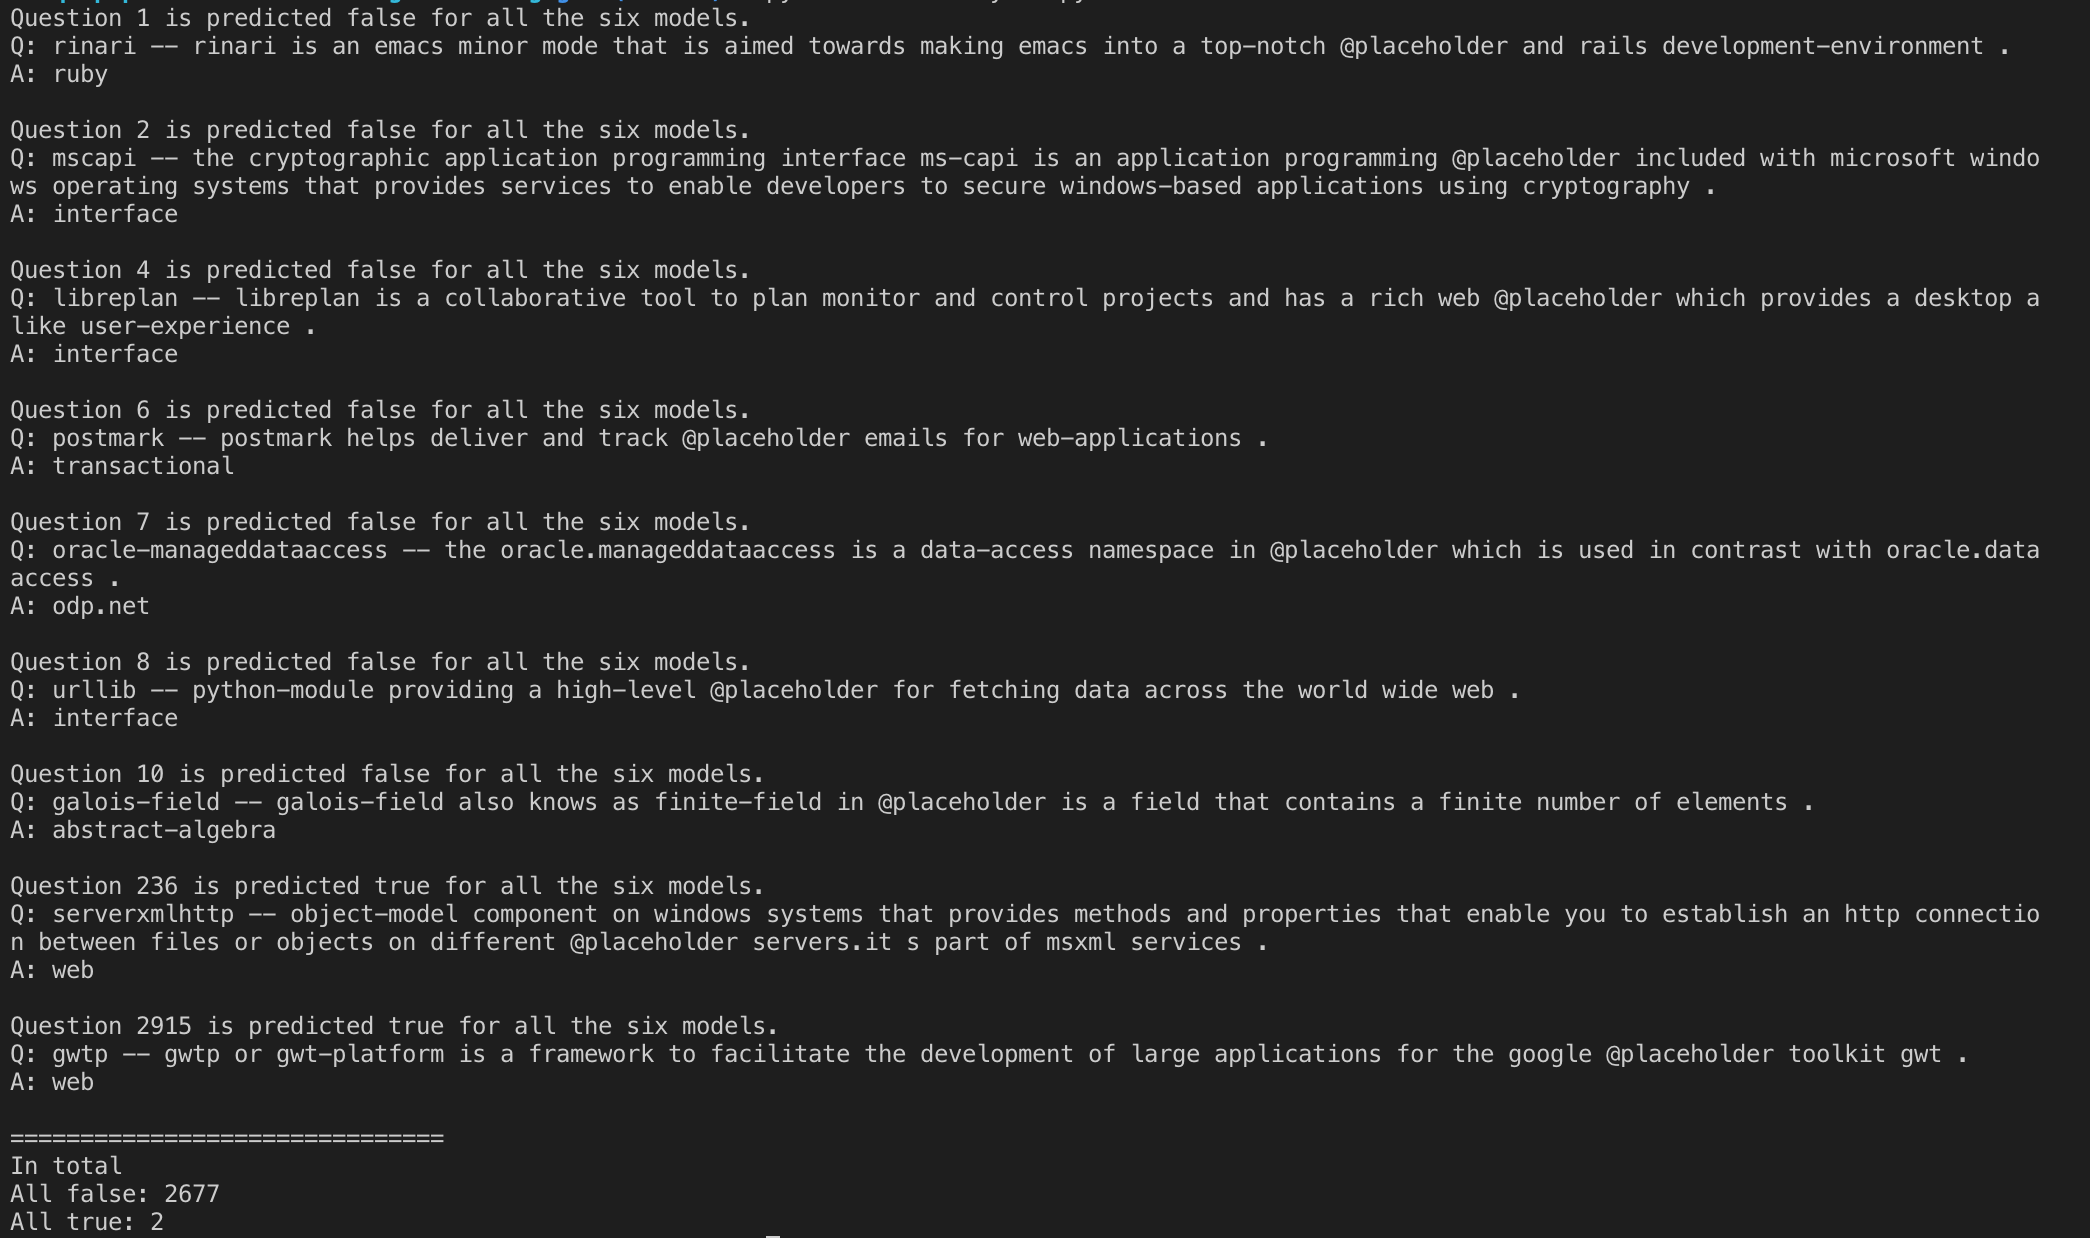
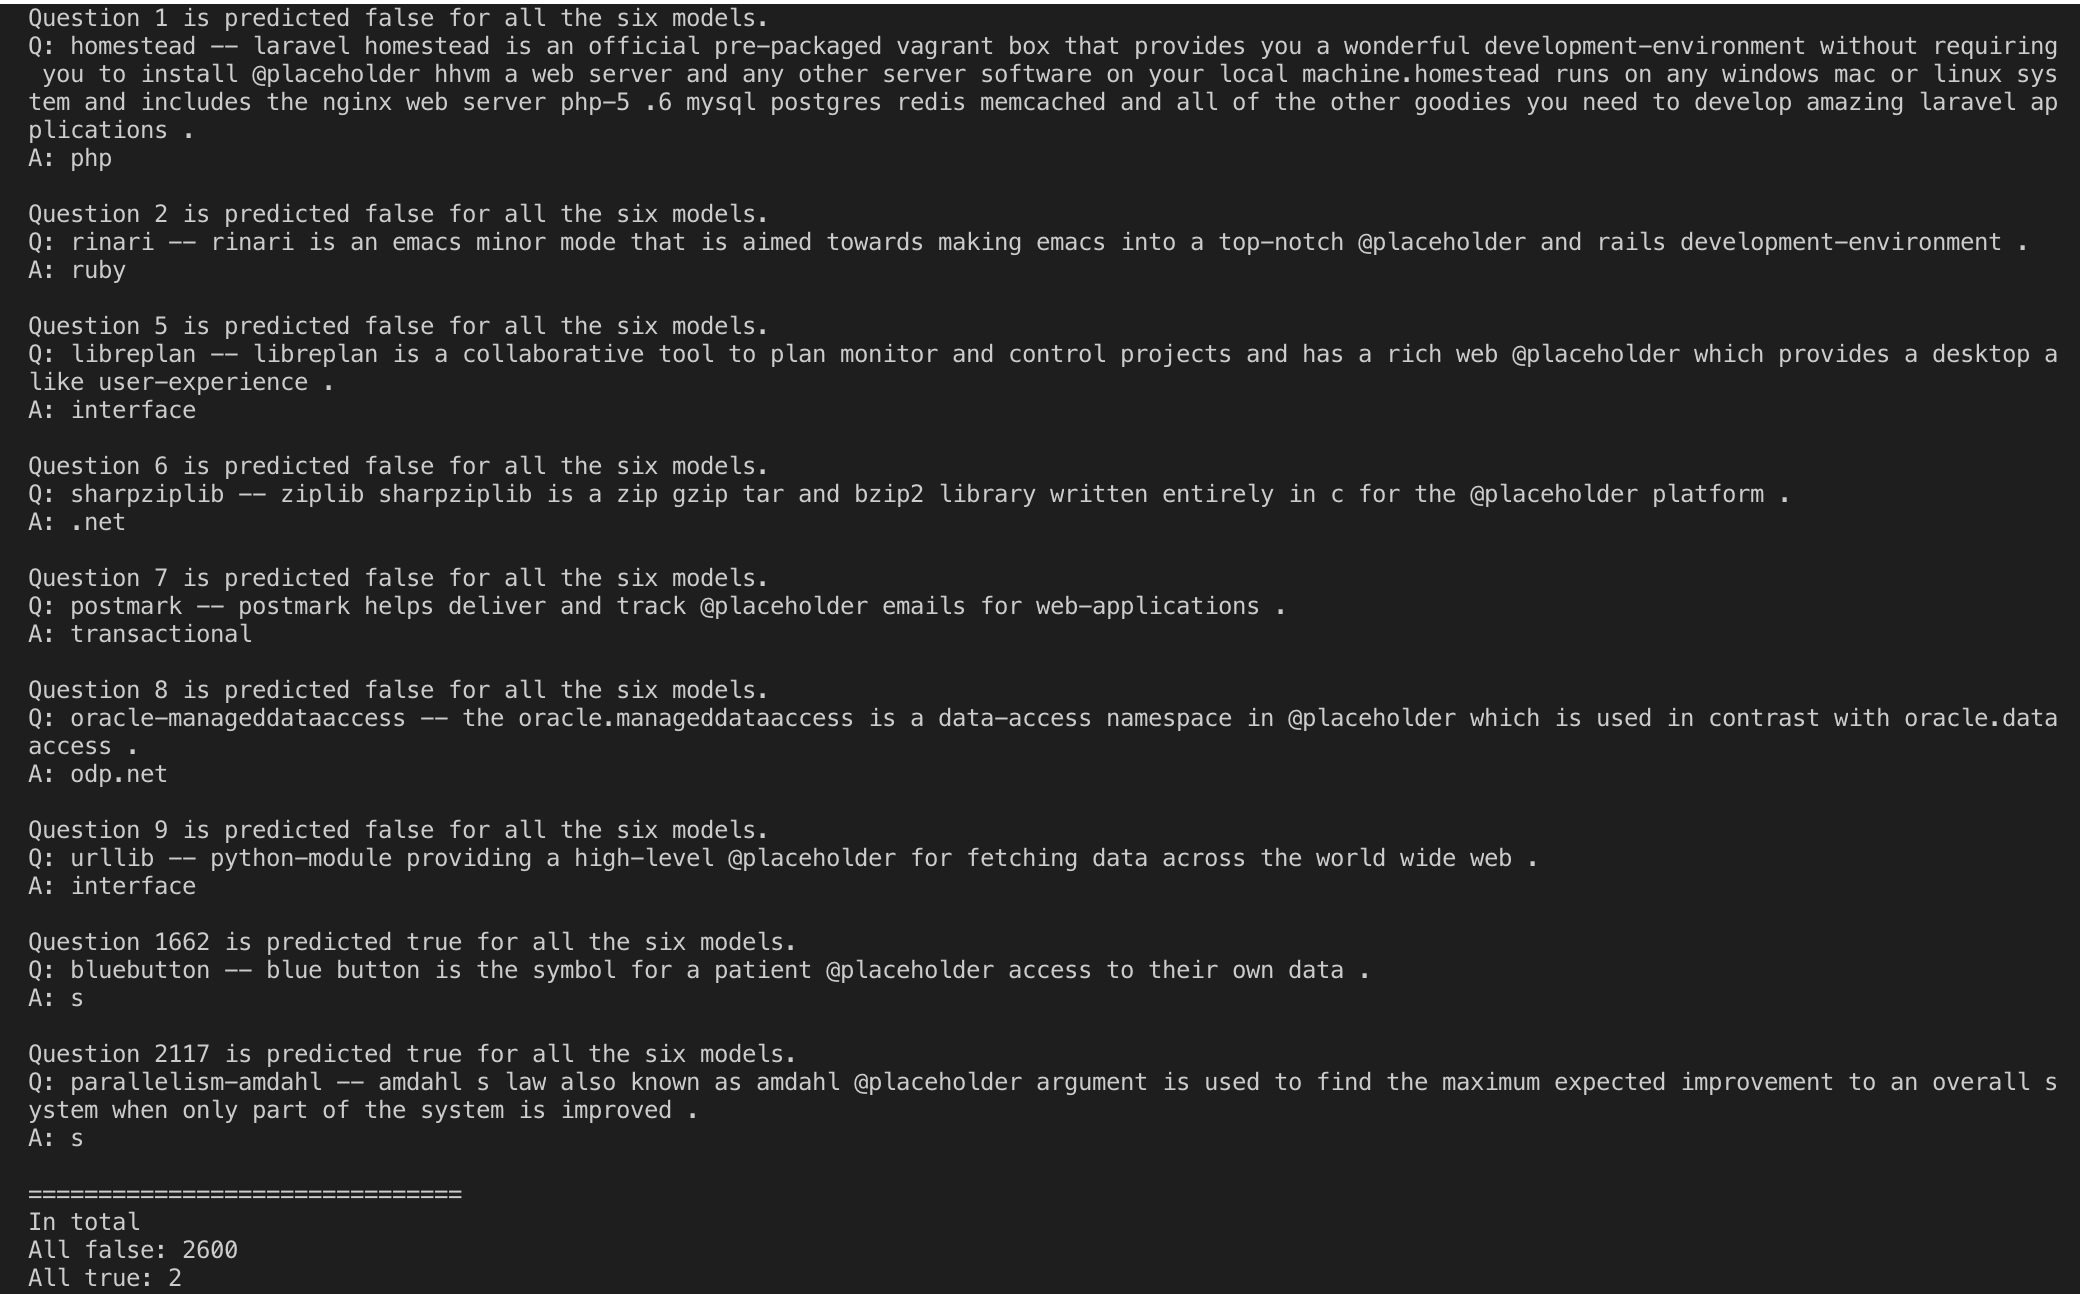
error analysis2

diff --git a/ErrorAnalysis.py b/ErrorAnalysis.py
@@ -8,12 +8,12 @@ valfile = open("../../quasar-s_dev_formatted.json", 'r')
 valData = json.load(valfile)
 valfile.close()
 
-Count_MNB_file = open("../Count_MNB_pred", 'r')
-Tfidf_MNB_file = open("../Tfidf_MNB_pred", 'r')
-Count_SVM_file = open("../Count_SVM_pred", 'r')
-Tfidf_SVM_file = open("../Tfidf_SVM_pred", 'r')
-Count_MLP_file = open("../Count_MLP_pred", 'r')
-Tfidf_MLP_file = open("../Tfidf_MLP_pred", 'r')
+Count_MNB_file = open("results/Count_MNB_pred", 'r')
+Tfidf_MNB_file = open("results/Tfidf_MNB_pred", 'r')
+Count_SVM_file = open("results/Count_SVM_pred", 'r')
+Tfidf_SVM_file = open("results/Tfidf_SVM_pred", 'r')
+Count_MLP_file = open("results/Count_MLP_pred", 'r')
+Tfidf_MLP_file = open("results/Tfidf_MLP_pred", 'r')
 
 Count_MNB = []
 Tfidf_MNB = []
@@ -50,8 +50,8 @@ for j in range(len(Count_MNB)):
         Count_MLP[j] == '0' and \
         Tfidf_MLP[j] == '0':
         false += 1
-        if j <= 10: # take some examples here not all
-            print "Question {} is predicted false for all the six models.".format(j)
+        if j < 10: # take some examples here not all
+            print "Question {} is predicted false for all the six models.".format(j+1)
             question = valData["questions"][j]
             X = question['query']
             Y = question['answers'][0]
@@ -65,7 +65,7 @@ for j in range(len(Count_MNB)):
         Count_MLP[j] == '1' and \
         Tfidf_MLP[j] == '1':
         true += 1
-        print "Question {} is predicted true for all the six models.".format(j)
+        print "Question {} is predicted true for all the six models.".format(j+1)
         question = valData["questions"][j]
         X = question['query']
         Y = question['answers'][0]

diff --git a/Readme.md b/Readme.md
@@ -1,4 +1,4 @@
-# qa-pipeline-with-learning-YikaiFeng
+# Report
 
 qa-pipeline-with-learning-YikaiFeng created by GitHub Classroom
 
